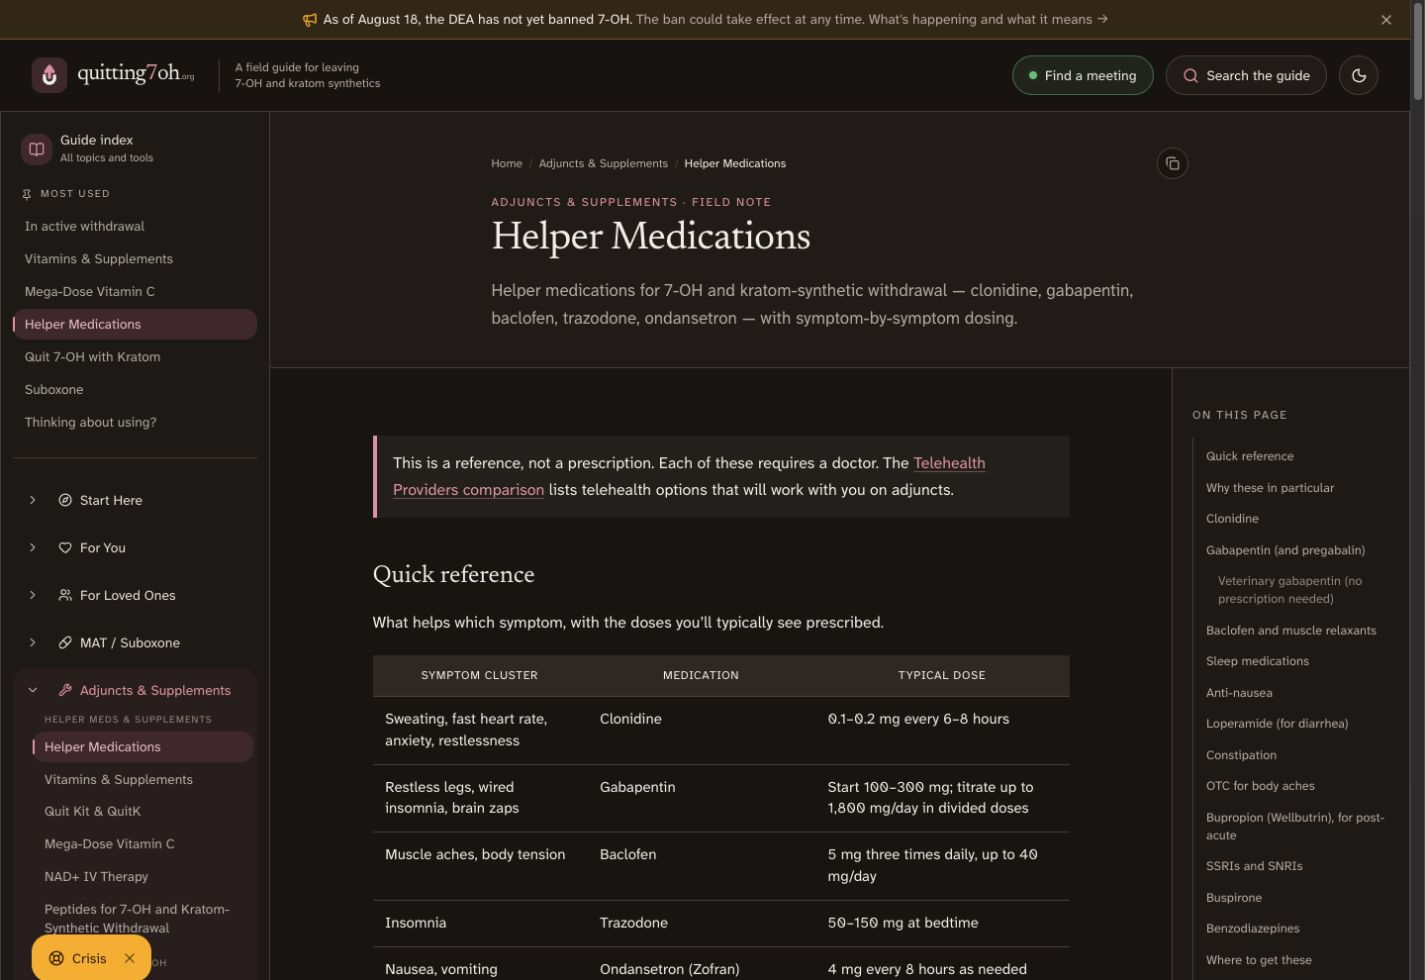
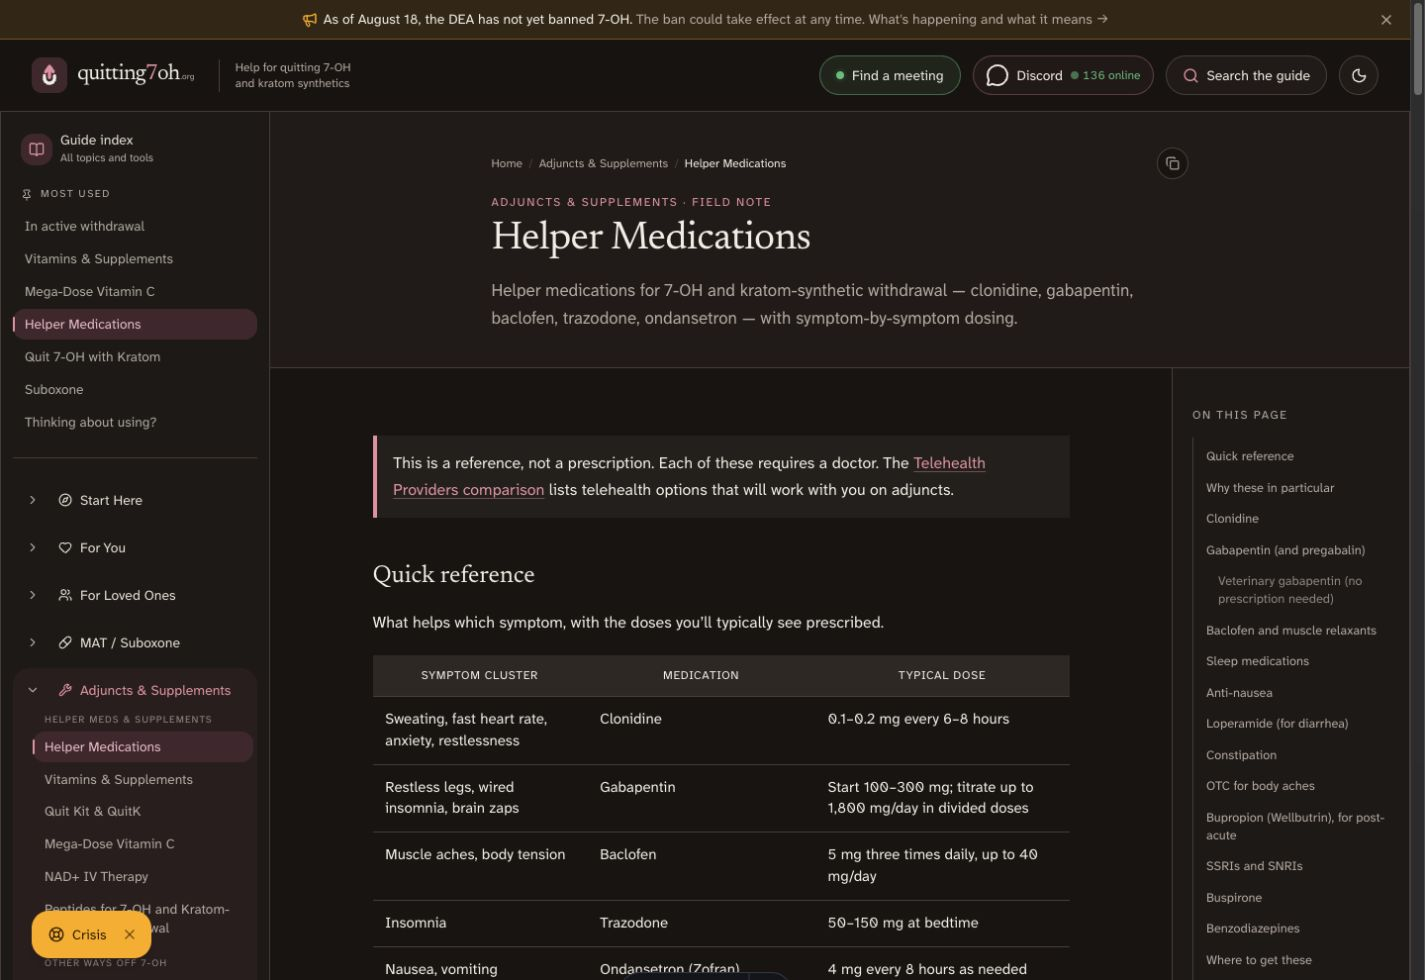
feat: add live Discord header link and tighten copy

Changed region(s): [[0.0, 0.9184, 0.1235, 1.0], [0.5867, 0.0612, 0.8028, 0.0918], [0.1544, 0.0612, 0.2779, 0.0918]]

diff --git a/src/components/DiscordOnlineCount.tsx b/src/components/DiscordOnlineCount.tsx
@@ -3,9 +3,7 @@ import { useEffect, useState } from 'react';
 const GUILD_ID = '1366097989382307901';
 const WIDGET_URL = `https://discord.com/api/guilds/${GUILD_ID}/widget.json`;
 
-/** Renders " · N online" inline (with a pulsing dot) when the Discord
- *  widget JSON reports an online count. Renders nothing while loading
- *  or on fetch failure, so the surrounding copy stays clean. */
+/** Show the Discord widget's current online count when it is available. */
 export function DiscordOnlineCount() {
   const [count, setCount] = useState<number | null>(null);
 
@@ -31,9 +29,12 @@ export function DiscordOnlineCount() {
   if (count === null || count <= 0) return null;
 
   return (
-    <span className="ml-1 inline-flex items-center gap-1 align-middle text-xs font-semibold text-success">
+    <span
+      className="inline-flex items-center gap-1 align-middle text-xs font-semibold tabular-nums text-success"
+      aria-label={`${count} members online`}
+    >
       <span
-        className="inline-block h-2 w-2 animate-pulse rounded-full bg-success"
+        className="inline-block h-2 w-2 rounded-full bg-success motion-safe:animate-pulse"
         aria-hidden="true"
       />
       {count} online

diff --git a/src/components/DiscordCard.tsx b/src/components/DiscordCard.tsx
@@ -84,7 +84,7 @@ export function DiscordCard() {
         </div>
         <div className="flex items-center gap-1.5 text-sm text-muted-foreground">
           <span
-            className="inline-block h-2 w-2 animate-pulse rounded-full bg-success"
+            className="inline-block h-2 w-2 rounded-full bg-success motion-safe:animate-pulse"
             aria-hidden="true"
           />
           <span>{data.presence_count} online</span>

diff --git a/REDESIGN.md b/REDESIGN.md
@@ -1,21 +1,19 @@
 # Field Guide redesign
 
-This branch rebuilds the user interface around one constraint: a reader in
-withdrawal may have shaky hands, little sleep, and a small phone. Readers get a
-quiet page, a short path to urgent help, and enough space for long articles.
+This branch rebuilds the user interface for readers who may have shaky hands,
+little sleep, and a small phone. It keeps urgent help close and long articles
+easy to scan.
 
 ## Design intent
 
-The site now reads like an annotated field guide. Fine rules, numbered section
-markers, paper-like surfaces, and a restrained editorial serif give the content
-structure without making it feel clinical. Large tap targets, direct labels,
-and short paths to withdrawal help and meetings carry the interaction work.
+Fine rules, numbered section markers, paper-like surfaces, and an editorial
+serif separate navigation from article text. Large tap targets and direct
+labels shorten the path to withdrawal help and meetings.
 
-The homepage starts with the two decisions readers reach for most: help during
-withdrawal and a comparison of quitting paths. Search and the next meeting sit
-in the same opening view. The old card grid gave way to a compact guide index.
-Category blurbs were removed from that index after the first visual pass; names
-and page counts are enough at that point in the journey.
+The homepage starts with withdrawal help and a comparison of quitting options.
+Search and the next meeting appear in the opening view. A compact topic index
+replaces the old card grid. It uses category names and page counts without
+repeating each category description.
 
 ## Type
 

diff --git a/src/content/about/changelog.md b/src/content/about/changelog.md
@@ -14,6 +14,15 @@ sort: 6
 
 This page tracks substantive changes to the site: new pages, rewrites, layout work, sourcing passes, editorial cleanups. Newest entries at the top. The same content lives in [`CHANGELOG.md`](https://github.com/quitting7oh/quitting7oh.org/blob/main/CHANGELOG.md) at the repo root, which is the source this page is generated from.
 
+## 2026-08-19
+
+### Redesign follow-up
+
+- Added a Discord invite beside the meeting action in the desktop header. It
+  shows the current online count when Discord's widget API is available.
+- Replaced slogan-like homepage and brand-guide copy with direct labels and
+  specific descriptions after a stop-slop review.
+
 ## 2026-08-18
 
 ### Field Guide visual redesign

diff --git a/CHANGELOG.md b/CHANGELOG.md
@@ -6,6 +6,15 @@ dated by the day the work shipped. This file is the source of truth for
 the public changelog at `/about/changelog`, generated by
 `scripts/sync-site-changelog.mjs`.
 
+## 2026-08-19
+
+### Redesign follow-up
+
+- Added a Discord invite beside the meeting action in the desktop header. It
+  shows the current online count when Discord's widget API is available.
+- Replaced slogan-like homepage and brand-guide copy with direct labels and
+  specific descriptions after a stop-slop review.
+
 ## 2026-08-18
 
 ### Field Guide visual redesign
